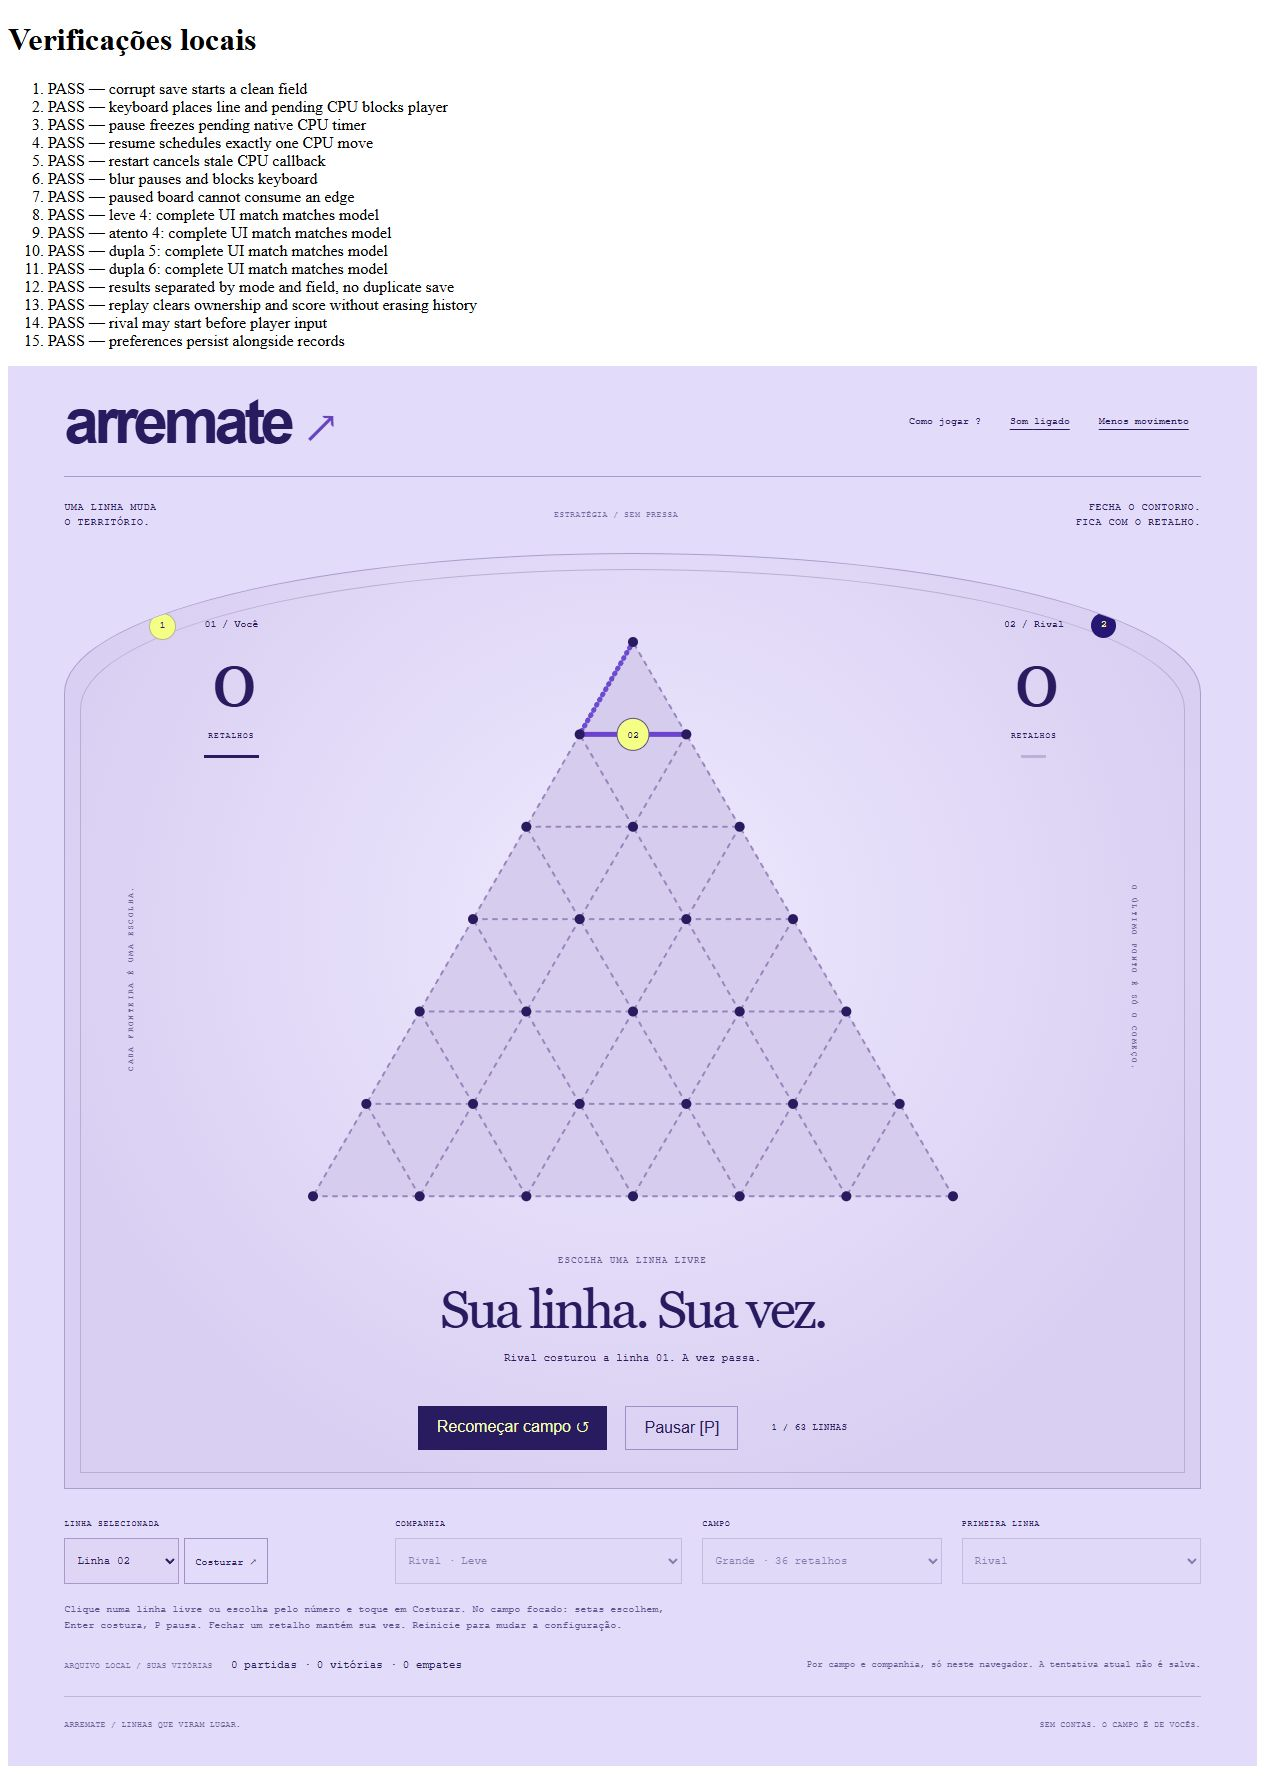
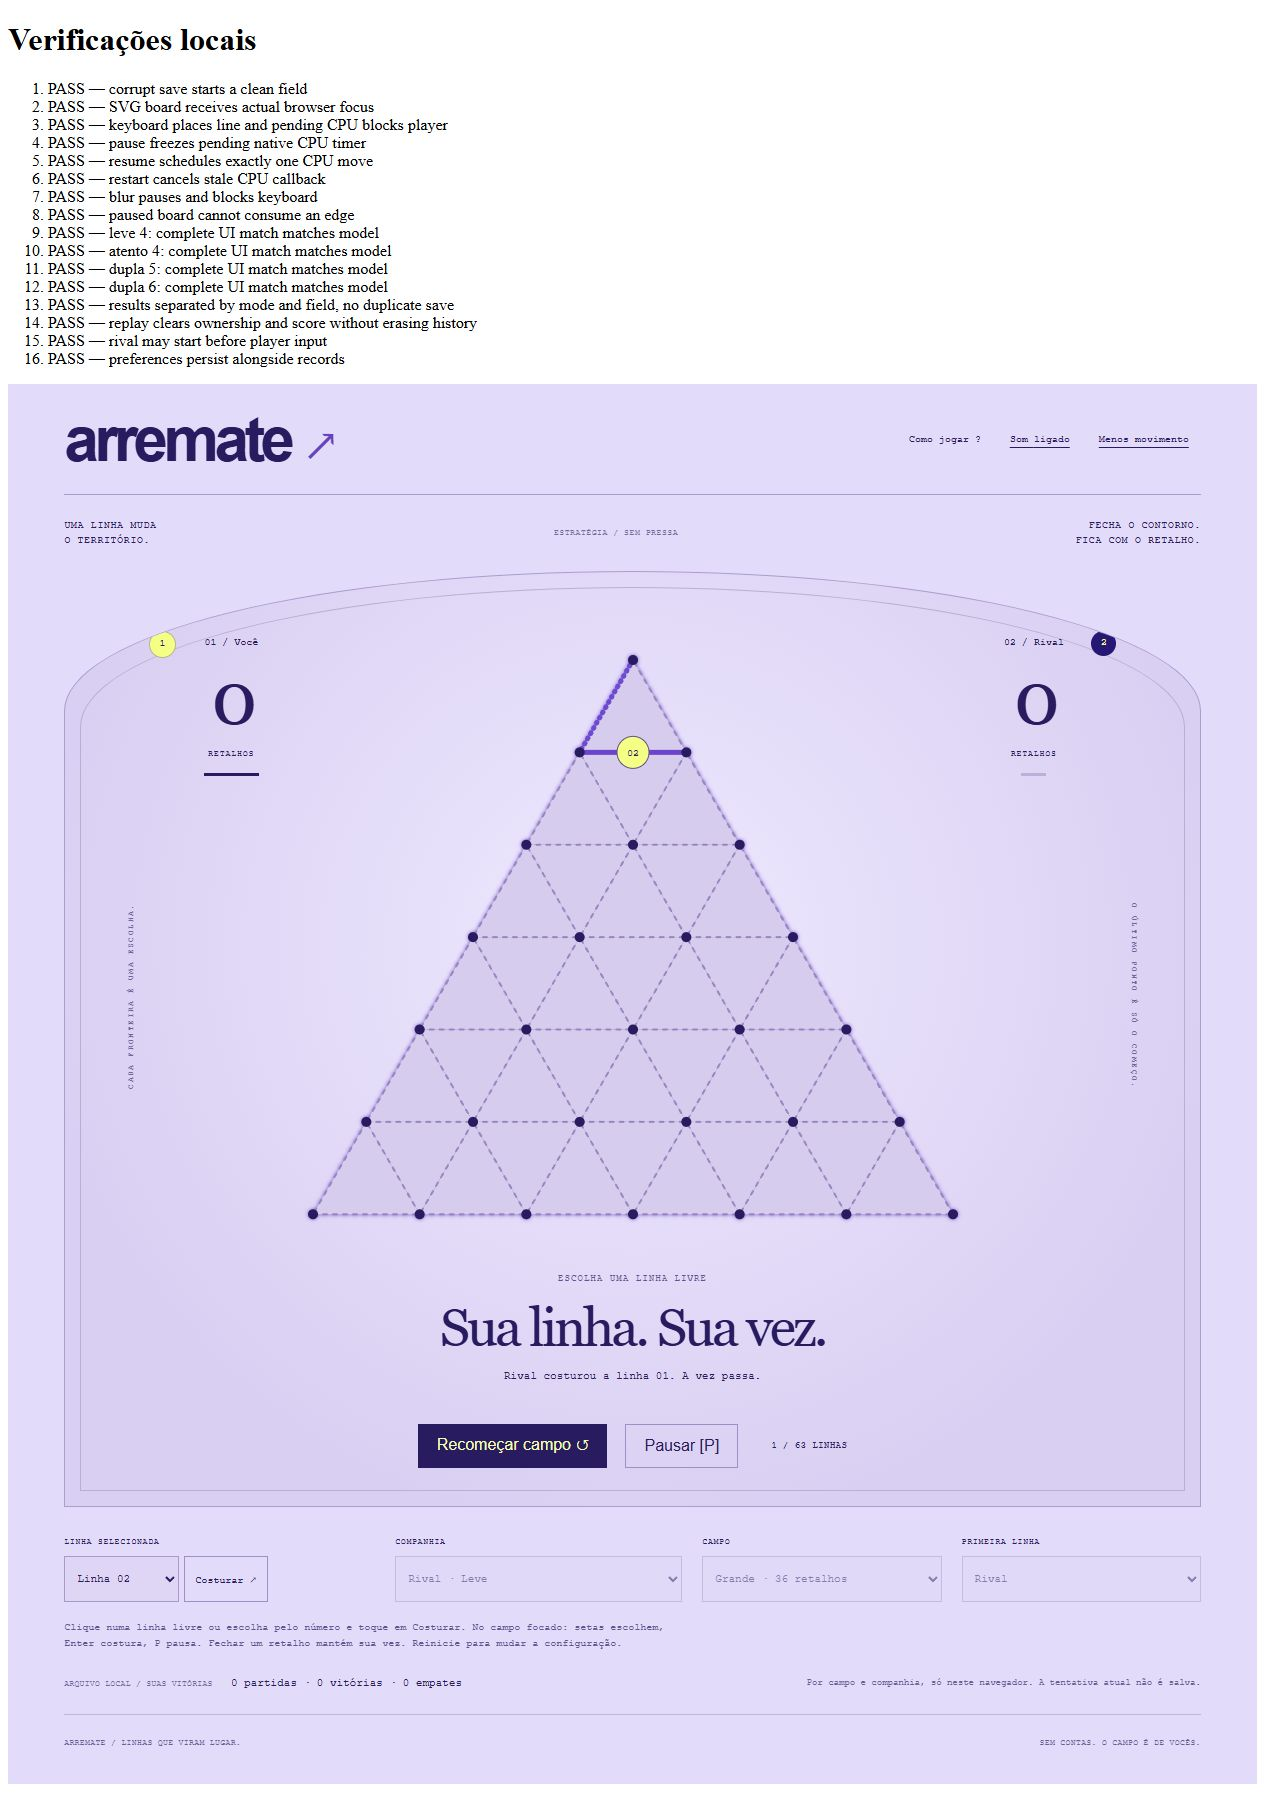
Record public outcomes keyboard regression and mobile verification

diff --git a/docs/validation.md b/docs/validation.md
@@ -14,7 +14,18 @@
 
 Typecheck, build e `npm audit` aprovados, sem vulnerabilidades informadas em 02/11/2026. Export apenas HTML, favicon, JS/CSS e licença, sem source maps, testes, `.git`, ambientes ou configuração local. Sem backend, APIs, dados pessoais, contas, fontes/imagens externas, telemetria ou compras.
 
-GitHub Pages de repositório público disponível no GitHub Free, conforme https://docs.github.com/en/pages/getting-started-with-github-pages/what-is-github-pages. Sem cartão, faturamento ou trial. Partidas públicas, autoria e scanner serão registrados antes da entrega.
+GitHub Pages de repositório público disponível no GitHub Free, conforme https://docs.github.com/en/pages/getting-started-with-github-pages/what-is-github-pages. Sem cartão, faturamento ou trial.
+
+## Publicação verificada em 02/11/2026
+
+- Implementação `bcc499650cb4ef7439629592efc38ddbbf4005f1`; correção de foco `dee8628a315d80e7437b3cf15ac5c92278b50a51`. CI `41551919742` e `41552349145` concluídos com testes, auditoria, typecheck, build e deploy aprovados.
+- No runtime público corrigido: Leve concluído com vitória 16–0, Atento com derrota 7–9, dupla com empate 8–8. Cada partida pequena percorreu as 30 linhas. Percursos derivados do modelo e executados por teclado, clique SVG e controles por número, sem editar save ou injetar estado. Primeiro par de jogadas normal; restante em Menos movimento. Evidências `public-leve-win.png`, `public-atento-loss.png`, `public-draw.png` e `public-gameplay.png`.
+- Foco real publicado conferido após recarregar o HTML para evitar cache da versão anterior: `tabindex="0"`, Enter costurou e P pausou com uma linha e timer rival pendente. Escape retomou e devolveu foco ao campo. Manual reabrível, som/mute e histórico por modo após reload conferidos; tentativa reiniciou e preferência de movimento persistiu.
+- Empate público revisado em viewport 390 × 844, sem overflow (375 px úteis/scrollWidth 375 px). Captura móvel por screenshot de viewport; captura de página inteira com override apresentou recomposição incorreta na ferramenta e foi substituída. Isso não foi tratado como prova de layout do jogo. Override restaurado e aba própria fechada.
+- Cinco arquivos públicos idênticos byte a byte ao build corrigido: HTML, favicon, licença, JS e CSS; 40.264 bytes totais. Bundle principal ~11,8 kB gzip. Sem promessa de FPS universal.
+- Gitleaks 8.30.1 com configuração externa confiável sem achados no staged, histórico, export e clone remoto novo. Sem supressões locais. Secret scanning, push protection e alertas/atualizações de dependências gratuitos habilitados.
+- API do GitHub confirmou somente `gustapaz` como contribuidor. Autor e committer `Gustavo Paz <96732649+gustapaz@users.noreply.github.com>`, sem coautor adicional; licença de terceiros preservada.
+- Mensagens de extensão do navegador separadas dos erros do jogo. Nenhuma falha do código de gameplay ou violação CSP identificada nas partidas públicas corrigidas; não alegar console universalmente limpo.
 
 ## Limites
 

diff --git a/README.md b/README.md
@@ -4,6 +4,8 @@
 
 [Jogar gratuitamente](https://gustapaz.github.io/arremate/)
 
+![Arremate publicado, campo triangular em disputa](docs/public-gameplay.png)
+
 Estratégia territorial em campo triangular. Costure fronteiras, feche retalhos e prepare sequências de captura. Três campos de 16, 25 ou 36 áreas, dois adversários locais e modo para duas pessoas no mesmo dispositivo.
 
 ## Regras
